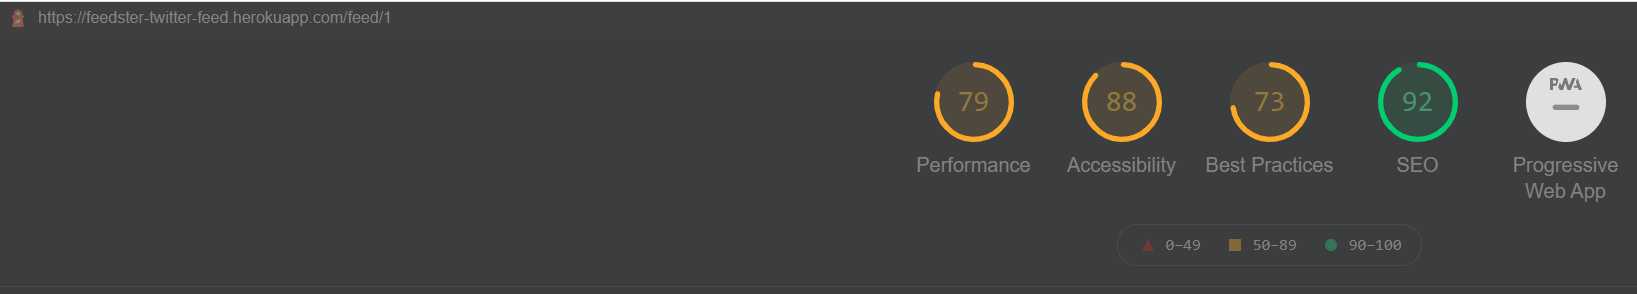
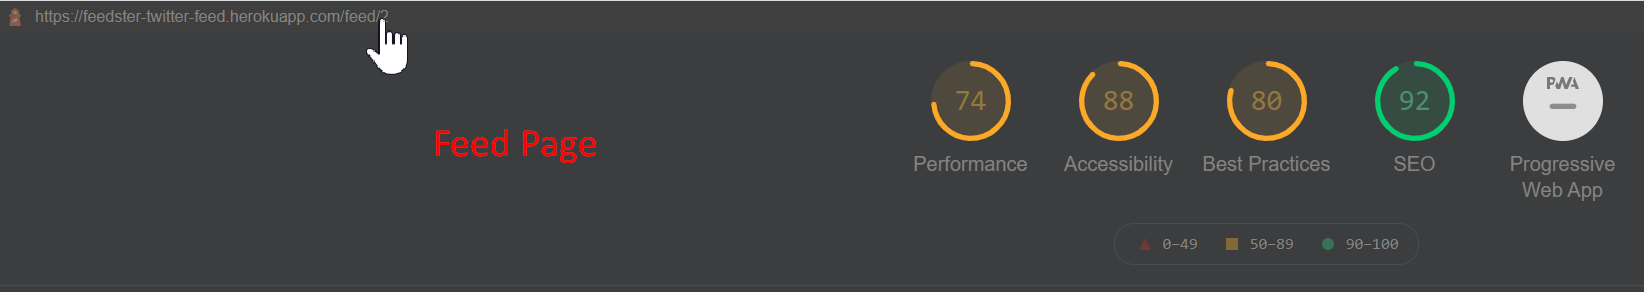
updated readme with the newly pushed heroku link's accessibility report

diff --git a/README.md b/README.md
@@ -79,7 +79,7 @@ Apply everything we’ve learnt over the past six units to create a real-world f
 To use **Feedster** web interface:
 
 a. Clone this repository to your local system <br>
-b. Run `npm install` or `npm i` in order to install the npm package dependencies as specified in the `package.json` file  <br>
+b. Run `npm install` or `npm i` in order to install the npm package dependencies as specified in the `package.json` file  <br> <img src= "./public/assets/packageJSON.png"> <br>
 c. Update the `.env.EXAMPLE` file by editing your mysql username and password for the db; including twitter specifics as defined in *https://www.npmjs.com/package/twitter* <br>
 d. Update the file name from `.env.EXAMPLE` to `.env` and ensure this file is in the root folder itself <br>
 e. Connect to the mysql DB locally and source the `schema.sql;` file by running `source db/schema.sql;` command <br>
@@ -106,13 +106,13 @@ i.On the **Feedster** [landing page](https://feedster-twitter-feed.herokuapp.com
 
 
 ## Mock-Up (Screenshots & Responsive UI View)
-**First Screen when web app loads:** <img src= ""> <br/>
+**First Screen when web app loads:** <img src= "./public/assets/LandingPage.png"> <br/>
 **SignUp Page with Client-side input validation (not passing)** <img src= "./public/assets/SignUpPage.png"> <br/>
 **SignUp Page with Client-side input validation (passing)** <img src= "./public/assets/SignUpSuccess.png"> <br/>
 **Feedster Terms of Service Page** <img src= "./public/assets/TermsOfService.png"> <br/>
 **Login Page with Client-side input validation (unmet conditions)** <img src= "./public/assets/LoginUnmetConditions.png"> <br/>
 <!-- **Form Input Reset to nirvana state:** <img src= "public\assets\ResetInputFieldsInForm.png"> <br/> -->
-**No Console Errors on Page Load (Right click for Inspect Element>Console tab)** <img src= "./public/assets/NoErrors.png"> <br/>
+**No Console Errors on Page Load (Right click for Inspect Element>Console tab)** <br/> <img src= "./public/assets/NoErrors.png"> <br/>
 **WrongURL Json Prompt:** <img src= "./public/assets/WrongURLJSONPROMPT.png"> <br/>
 **User Profile Page: (URL: /profile/id#)** <img src= "./public/assets/ProfilePage.png"> <br/>
 **Add Feed : (URL: /profile/id#)** <img src= "./public/assets/AddFeed.png"> <br/>
